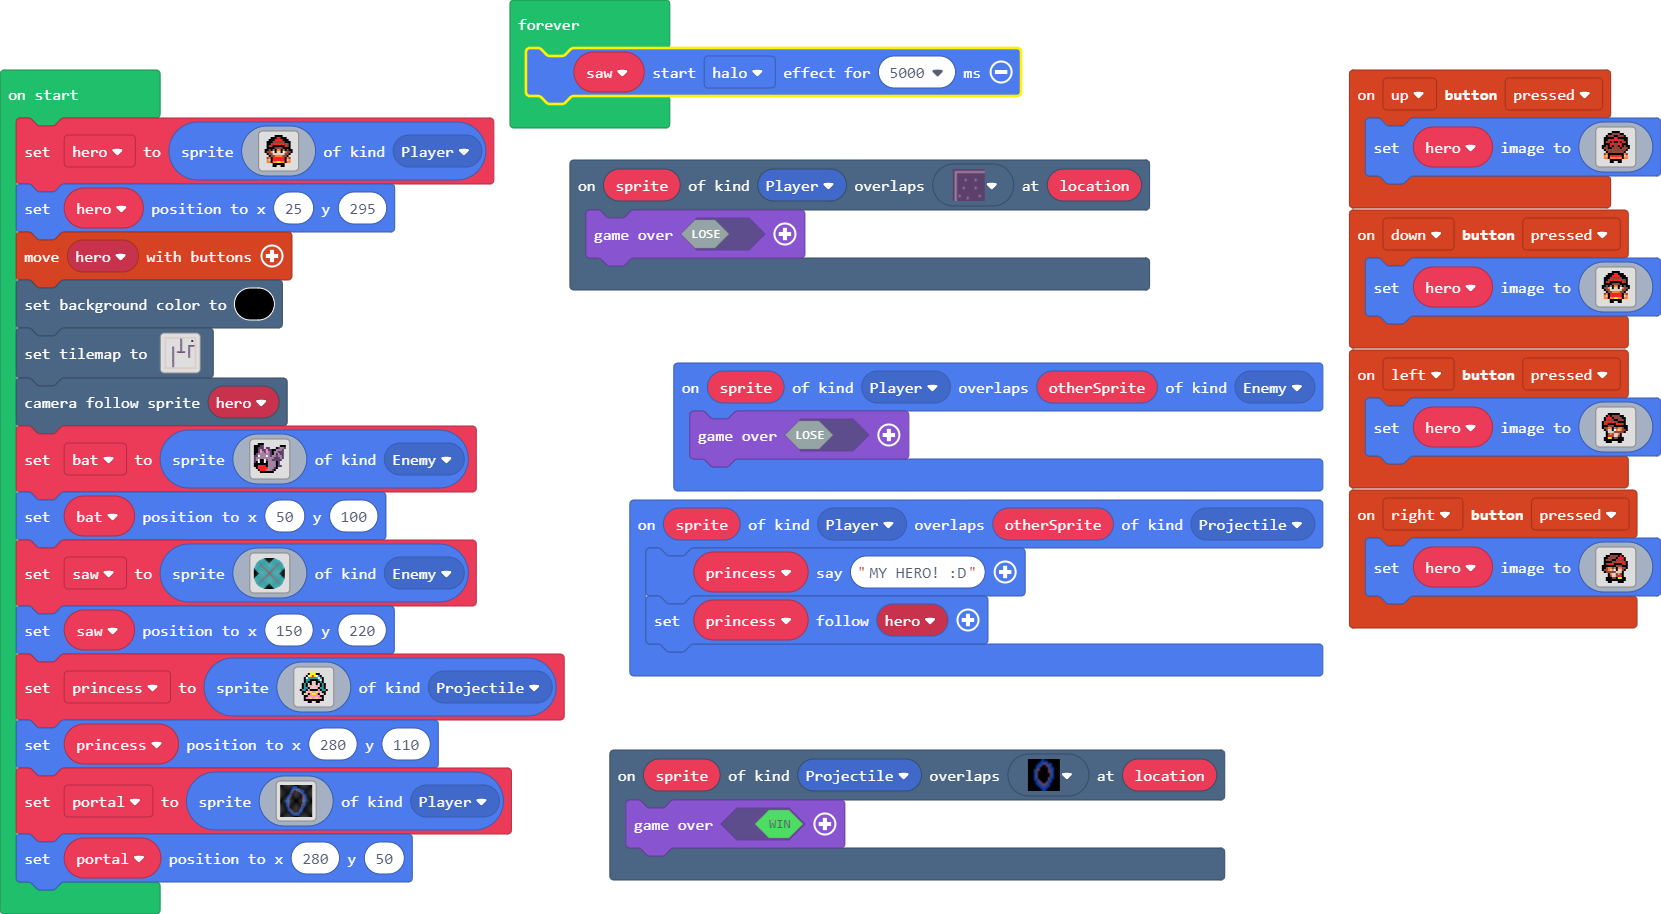
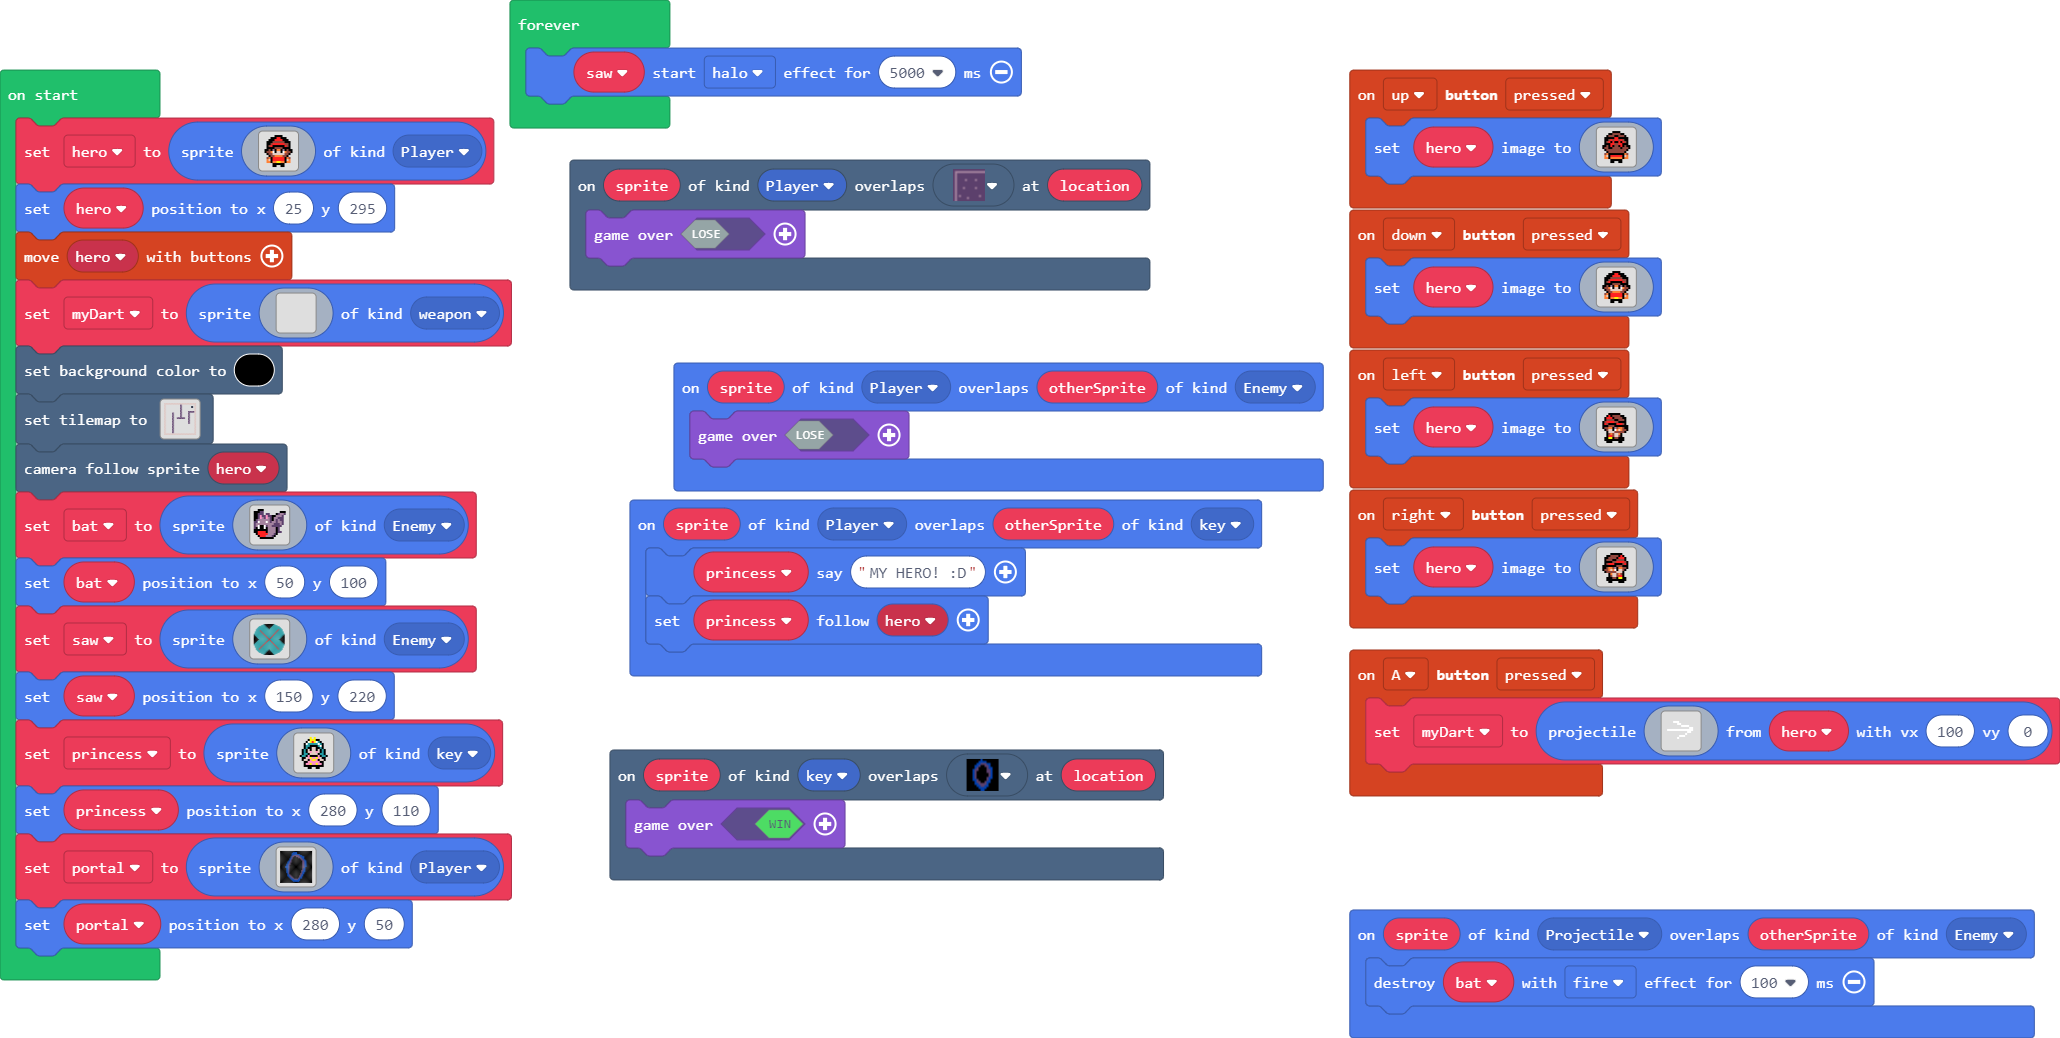
Update main.blocks, main.ts

diff --git a/main.ts b/main.ts
@@ -1,3 +1,7 @@
+namespace SpriteKind {
+    export const weapon = SpriteKind.create()
+    export const key = SpriteKind.create()
+}
 namespace myTiles {
     //% blockIdentity=images._tile
     export const tile0 = img`
@@ -78,12 +82,35 @@ controller.down.onEvent(ControllerButtonEvent.Pressed, function () {
 . . . . . f f . . f f . . . . . 
 `)
 })
+sprites.onOverlap(SpriteKind.Player, SpriteKind.key, function (sprite, otherSprite) {
+    princess.say("MY HERO! :D")
+    princess.follow(hero)
+})
 scene.onOverlapTile(SpriteKind.Player, sprites.dungeon.darkGroundNorthWest0, function (sprite, location) {
     game.over(false)
 })
-sprites.onOverlap(SpriteKind.Player, SpriteKind.Projectile, function (sprite, otherSprite) {
-    princess.say("MY HERO! :D")
-    princess.follow(hero)
+sprites.onOverlap(SpriteKind.Projectile, SpriteKind.Enemy, function (sprite, otherSprite) {
+    bat.destroy(effects.fire, 100)
+})
+controller.A.onEvent(ControllerButtonEvent.Pressed, function () {
+    myDart = sprites.createProjectileFromSprite(img`
+. . . . . . . . . . . . . . . . 
+. . . . . . . . . . . . . . . . 
+. . . . . . . . . . . . . . . . 
+. . . . 1 1 1 . . . . . . . . . 
+. . . . . . 1 1 . . . . . . . . 
+. . . . . . . . 1 1 1 1 . . . . 
+. . . . . . . . . . . . 1 1 . . 
+. 1 1 1 1 1 1 1 1 1 1 1 1 1 . . 
+. . . . . . . . . . . 1 1 . . . 
+. . . . . . . . . . 1 . . . . . 
+. . . . . . . 1 1 1 . . . . . . 
+. . . . . . 1 . . . . . . . . . 
+. . . . . . . . . . . . . . . . 
+. . . . . . . . . . . . . . . . 
+. . . . . . . . . . . . . . . . 
+. . . . . . . . . . . . . . . . 
+`, hero, 100, 0)
 })
 sprites.onOverlap(SpriteKind.Player, SpriteKind.Enemy, function (sprite, otherSprite) {
     game.over(false)
@@ -108,7 +135,7 @@ controller.right.onEvent(ControllerButtonEvent.Pressed, function () {
 . . . . f f . . . f f f . . . . 
 `)
 })
-scene.onOverlapTile(SpriteKind.Projectile, myTiles.tile1, function (sprite, location) {
+scene.onOverlapTile(SpriteKind.key, myTiles.tile1, function (sprite, location) {
     game.over(true)
 })
 controller.up.onEvent(ControllerButtonEvent.Pressed, function () {
@@ -132,6 +159,8 @@ controller.up.onEvent(ControllerButtonEvent.Pressed, function () {
 `)
 })
 let princess: Sprite = null
+let bat: Sprite = null
+let myDart: Sprite = null
 let hero: Sprite = null
 hero = sprites.create(img`
 . . . . . . f f f f . . . . . . 
@@ -153,6 +182,24 @@ hero = sprites.create(img`
 `, SpriteKind.Player)
 hero.setPosition(25, 295)
 controller.moveSprite(hero)
+myDart = sprites.create(img`
+. . . . . . . . . . . . . . . . 
+. . . . . . . . . . . . . . . . 
+. . . . . . . . . . . . . . . . 
+. . . . . . . . . . . . . . . . 
+. . . . . . . . . . . . . . . . 
+. . . . . . . . . . . . . . . . 
+. . . . . . . . . . . . . . . . 
+. . . . . . . . . . . . . . . . 
+. . . . . . . . . . . . . . . . 
+. . . . . . . . . . . . . . . . 
+. . . . . . . . . . . . . . . . 
+. . . . . . . . . . . . . . . . 
+. . . . . . . . . . . . . . . . 
+. . . . . . . . . . . . . . . . 
+. . . . . . . . . . . . . . . . 
+. . . . . . . . . . . . . . . . 
+`, SpriteKind.weapon)
 scene.setBackgroundColor(15)
 tiles.setTilemap(tiles.createTilemap(
[1 lines of base64/hex data omitted]
@@ -182,7 +229,7 @@ tiles.setTilemap(tiles.createTilemap(
             TileScale.Sixteen
         ))
 scene.cameraFollowSprite(hero)
-let bat = sprites.create(img`
+bat = sprites.create(img`
 . . f f f . . . . . . . . . . . 
 f f f c c . . . . . . . . f f f 
 f f c c c . c c . . . f c b b c 
@@ -251,7 +298,7 @@ princess = sprites.create(img`
 . . . f 3 3 5 3 3 5 3 3 f . . . 
 . . . f f f f f f f f f f . . . 
 . . . . . f f . . f f . . . . . 
-`, SpriteKind.Projectile)
+`, SpriteKind.key)
 princess.setPosition(280, 110)
 let portal = sprites.create(img`
 f f f f f f f f f f f f f f f f f f f f f f f f f f f f f f 
